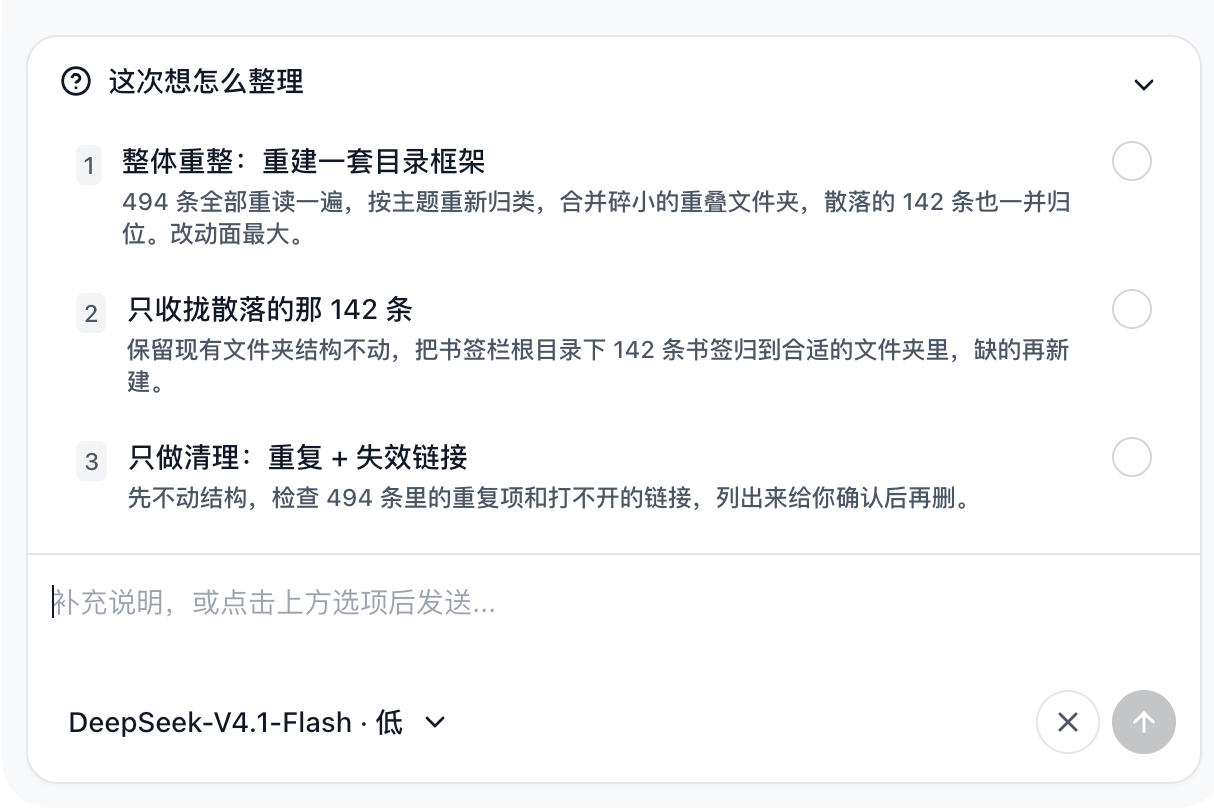
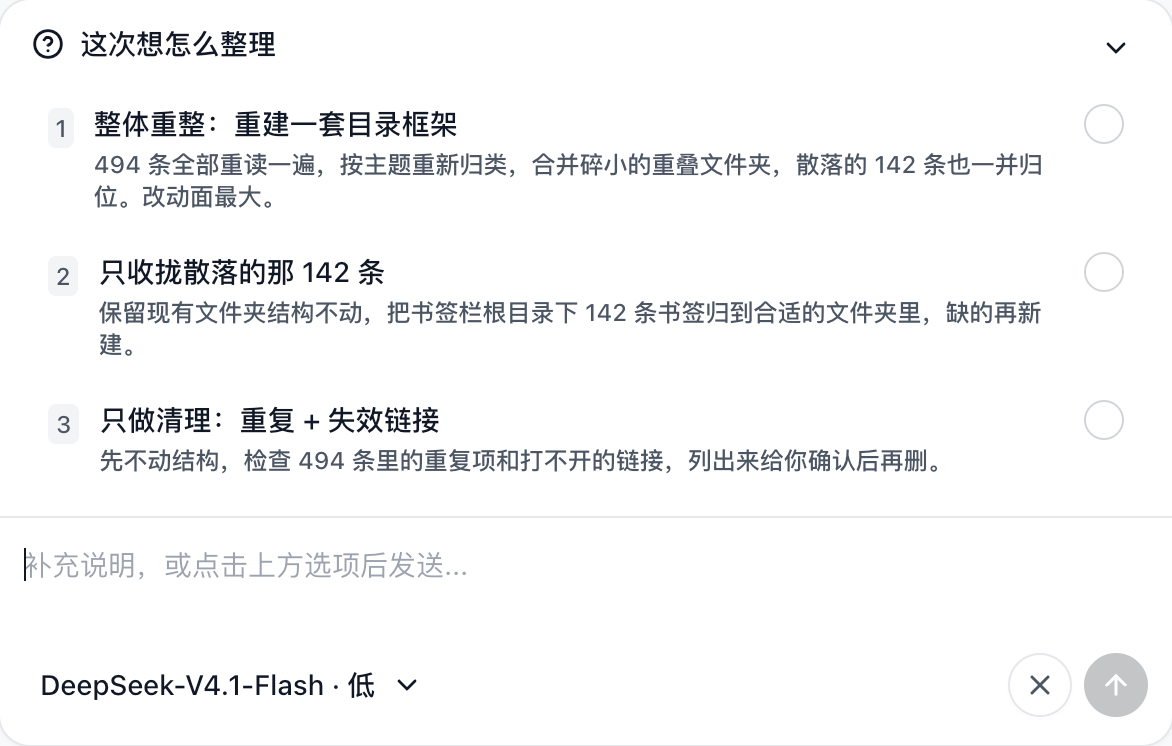
作品集：移除追问截图自带的外围灰边

diff --git a/src/app/cases/components/YeHomePreview.tsx b/src/app/cases/components/YeHomePreview.tsx
@@ -85,10 +85,10 @@ export function YeHomePreview() {
     <h3 id="ye-follow-up-title">关于追问</h3>
     <div className="case-prose"><p className="case-paragraph">用户的一句话可能有多种理解，也可能缺少完成任务所需的信息。我希望 AI <mark className="case-marker">先结合上下文理解需求，仍不明确时再追问</mark>，避免理解错了就直接执行。问题要具体，让用户知道还缺什么、为什么需要补充，并自然地接着当前对话问下去。</p></div>
     <figure className="ye-clarification-gallery" aria-label="追问与方案预览截图">
-    <img className="ye-clarification-image" src={`${import.meta.env.BASE_URL}images/ye/clarification-example.webp`} alt="AI 追问这次想怎么整理，提供整体重整、只收拢散落书签、只清理重复与失效链接三个选项，并支持补充说明" width="1214" height="810" loading="lazy" decoding="async" />
-    <img className="ye-clarification-image" src={`${import.meta.env.BASE_URL}images/ye/clarification-plan-preview.webp`} alt="方案预览：展示设计目录及子目录的分类说明与预计数量" width="1204" height="650" loading="lazy" decoding="async" />
-    <img className="ye-clarification-image" src={`${import.meta.env.BASE_URL}images/ye/clarification-structure-options.webp`} alt="目录结构方案：选择精细版或精简版，并可补充说明" width="1218" height="612" loading="lazy" decoding="async" />
-    <img className="ye-clarification-image" src={`${import.meta.env.BASE_URL}images/ye/clarification-existing-folders.webp`} alt="目录结构方案：选择按目录树整理或沿用现有文件夹归位" width="1206" height="660" loading="lazy" decoding="async" />
+    <img className="ye-clarification-image" src={`${import.meta.env.BASE_URL}images/ye/clarification-example.webp`} alt="AI 追问这次想怎么整理，提供整体重整、只收拢散落书签、只清理重复与失效链接三个选项，并支持补充说明" width="1172" height="746" loading="lazy" decoding="async" />
+    <img className="ye-clarification-image" src={`${import.meta.env.BASE_URL}images/ye/clarification-plan-preview.webp`} alt="方案预览：展示设计目录及子目录的分类说明与预计数量" width="1173" height="609" loading="lazy" decoding="async" />
+    <img className="ye-clarification-image" src={`${import.meta.env.BASE_URL}images/ye/clarification-structure-options.webp`} alt="目录结构方案：选择精细版或精简版，并可补充说明" width="1173" height="566" loading="lazy" decoding="async" />
+    <img className="ye-clarification-image" src={`${import.meta.env.BASE_URL}images/ye/clarification-existing-folders.webp`} alt="目录结构方案：选择按目录树整理或沿用现有文件夹归位" width="1175" height="637" loading="lazy" decoding="async" />
     </figure>
   </section></>;
 }
